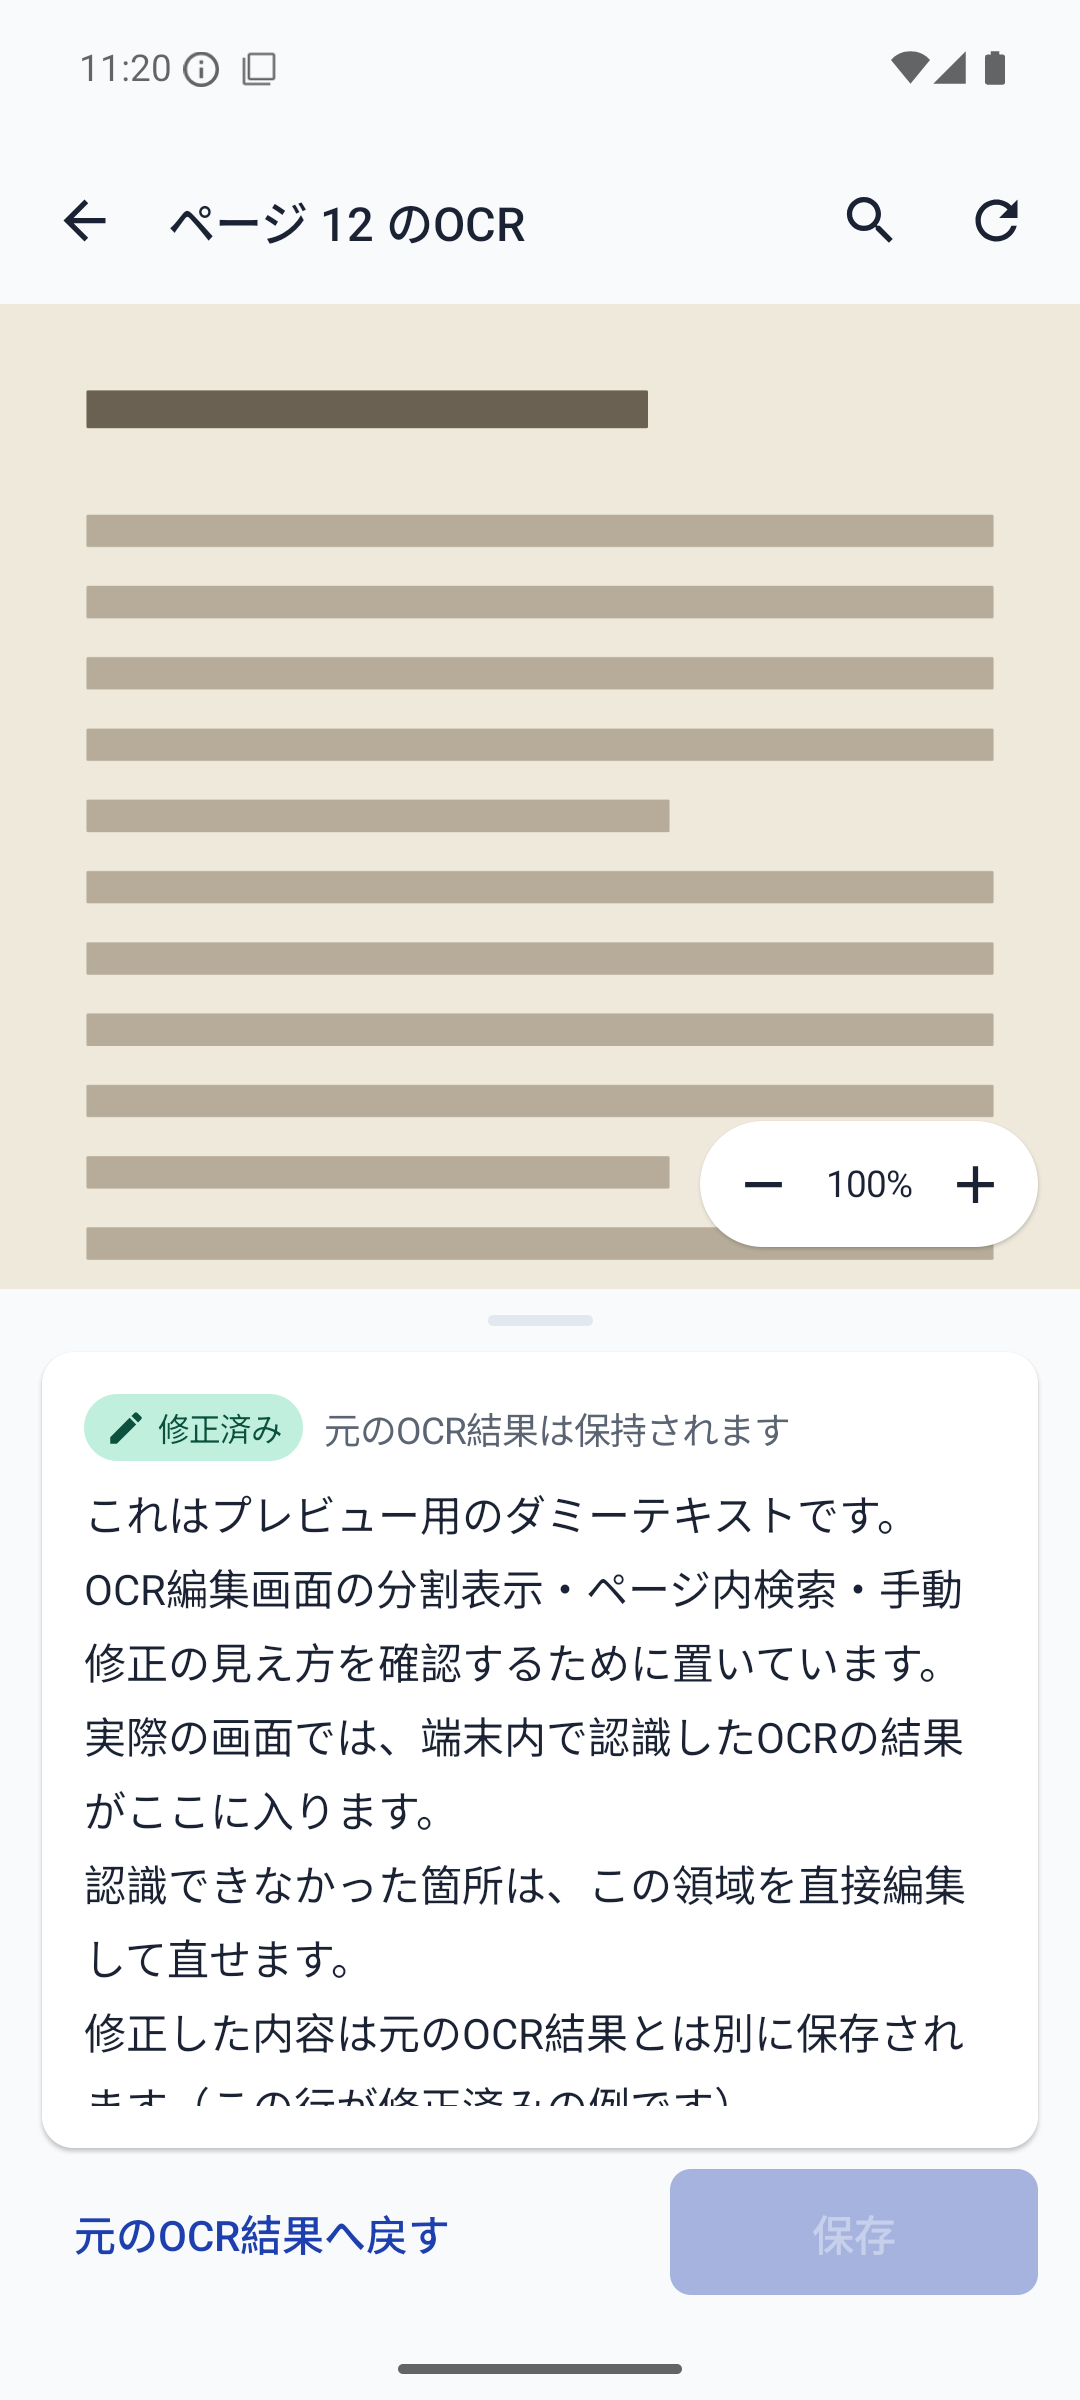
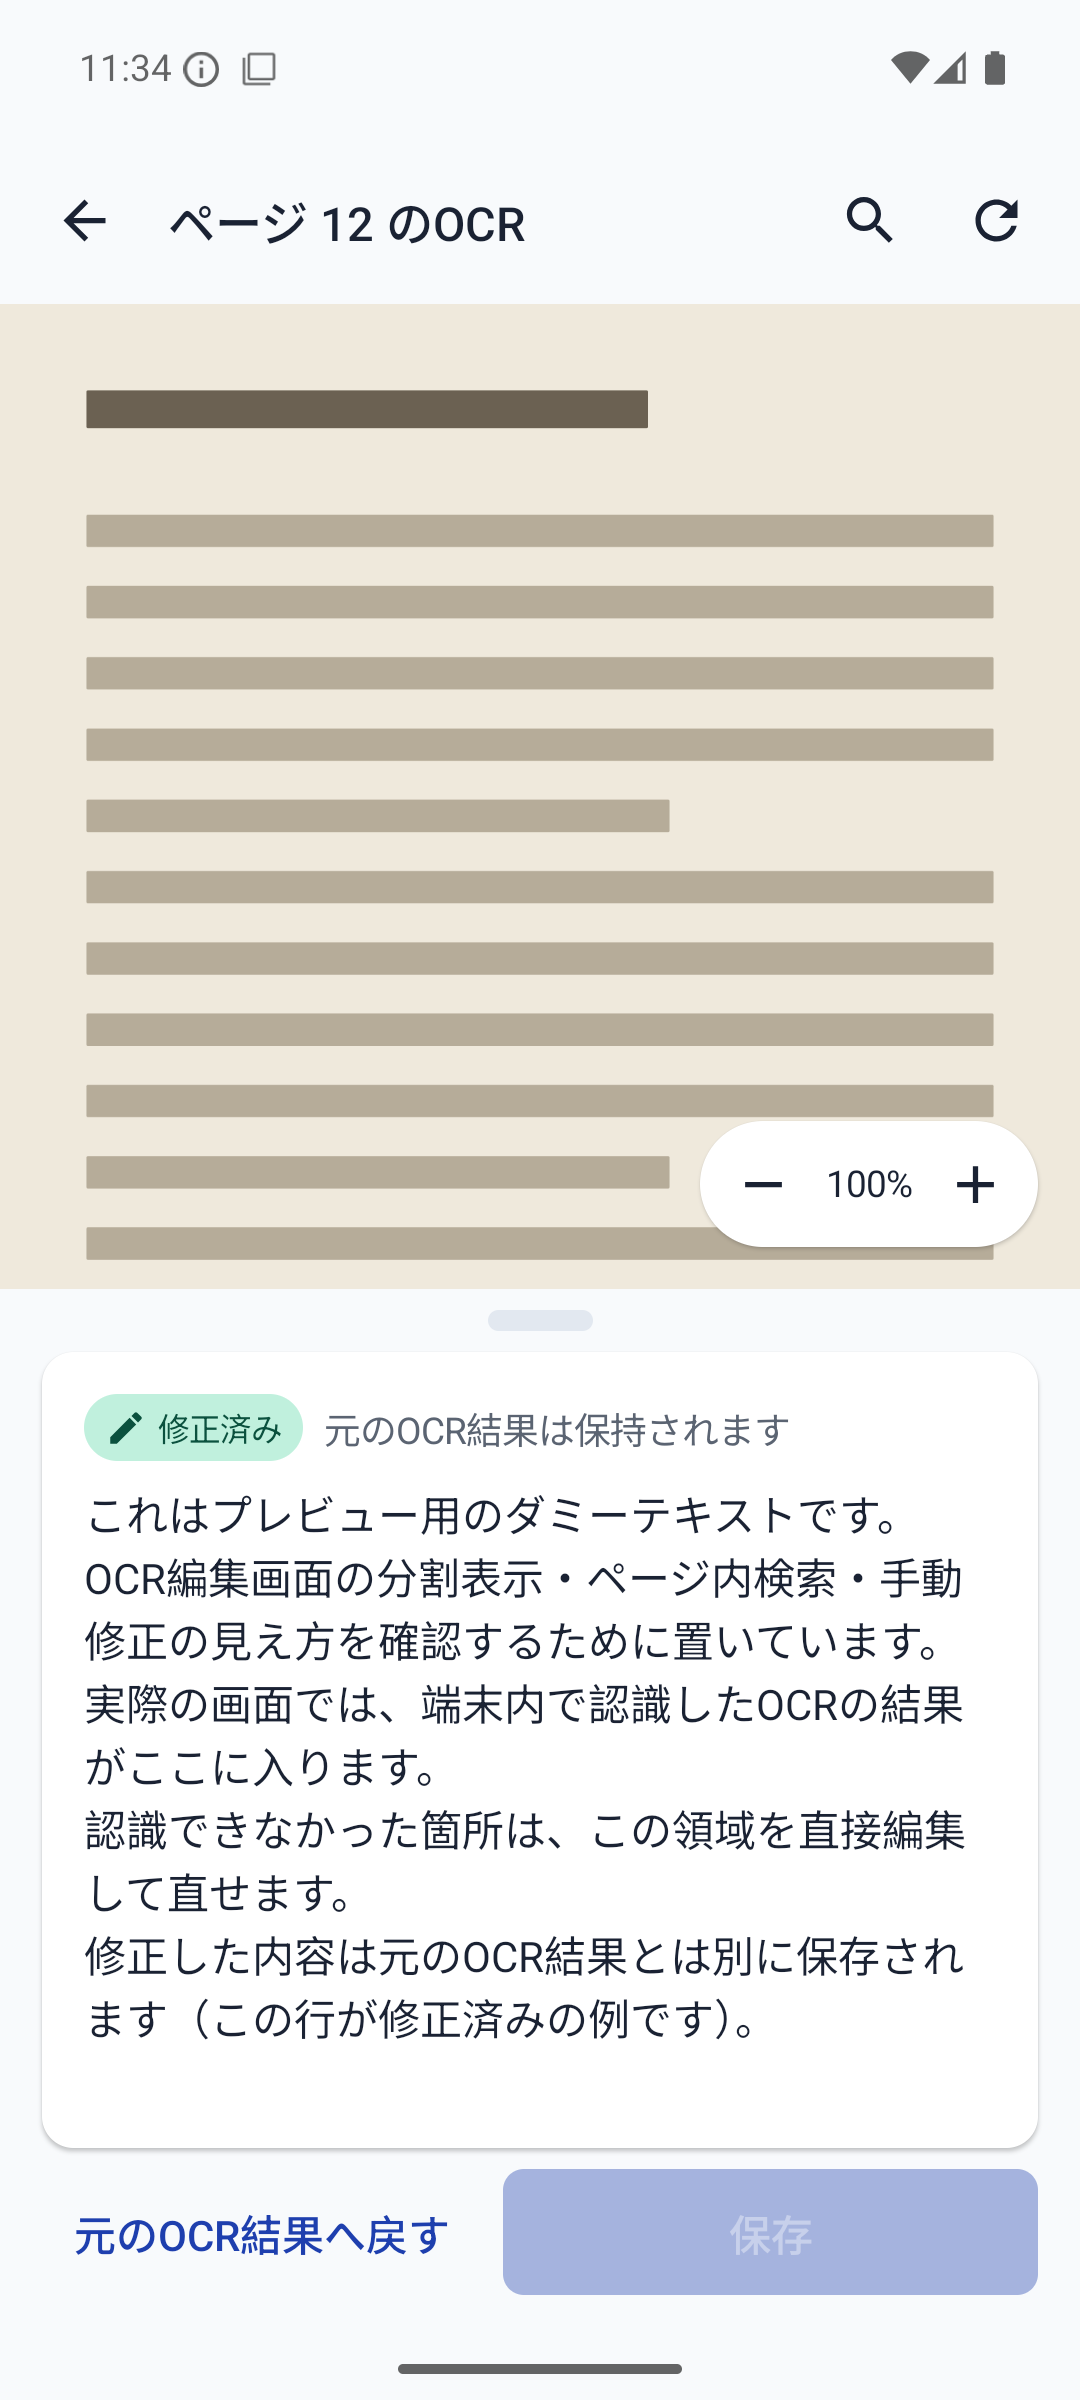
task pagebinder-c2s.5: 局所寸法・行間をデザイントークンへ寄せる
fresh-context 評価者の指摘（デザイントークン準拠が未達）への対応。
値の正本は docs/design/system/01-tokens.md（00-design-overview.md
「数値はトークンが正」）。10-ocr-edit.md 側にこれらの明示定義は無い。

- SAVE_BUTTON_WIDTH=140dp を廃止。保存ボタンは行の残り幅（weight）で決める
- 分割ハンドルのバー高さ 4dp → SpaceUnit(8dp)。ハンドル高さ・バー幅・
  バッジアイコンも 8dp グリッドの倍数（SpaceUnit * n）へ書き換え
- 本文の lineHeight 28sp の上書きを削除し、テーマの bodyLarge(16sp/24sp) を使う
  （10-ocr-edit.md の「行間広め」は素材の記述で、値の正本はトークン）
- スクリーンショットを撮り直し

検証: make verify → VERIFY: PASS（全 57 instrumented test 通過）

Changed region(s): [[0.0611, 0.625, 0.8861, 0.9688], [0.6722, 0.9062, 0.825, 0.9375], [0.1222, 0.0, 0.1528, 0.0312]]

diff --git a/app/src/main/java/com/pagebinder/app/ui/ocredit/OcrEditScreen.kt b/app/src/main/java/com/pagebinder/app/ui/ocredit/OcrEditScreen.kt
@@ -80,7 +80,6 @@ import androidx.compose.ui.text.input.VisualTransformation
 import androidx.compose.ui.text.style.TextAlign
 import androidx.compose.ui.unit.Dp
 import androidx.compose.ui.unit.dp
-import androidx.compose.ui.unit.sp
 import com.pagebinder.app.R
 import com.pagebinder.app.domain.PageOcrState
 import com.pagebinder.app.ui.pagelist.PageStatusBadge
@@ -654,7 +653,9 @@ private fun OcrEditTextField(
             if (updated.text != uiState.draftText) onTextChange(updated.text)
         },
         enabled = !uiState.saving,
-        textStyle = MaterialTheme.typography.bodyLarge.copy(color = ColorText, lineHeight = BODY_LINE_HEIGHT),
+        // 本文16sp・行間はテーマの bodyLarge（16sp/24sp）のまま使う。
+        // docs/design/10-ocr-edit.md の「行間広め」は素材の記述で、値の正本は docs/design/system/01-tokens.md
+        textStyle = MaterialTheme.typography.bodyLarge.copy(color = ColorText),
         cursorBrush = SolidColor(ColorPrimary),
         visualTransformation = transformation,
         modifier = modifier.testTag(OCR_EDIT_TEXT_TEST_TAG),
@@ -736,7 +737,7 @@ private fun OcrEditFooter(
                 color = if (uiState.canRevert) ColorPrimary else ColorPrimary.copy(alpha = DISABLED_ALPHA),
             )
         }
-        Spacer(modifier = Modifier.weight(1f))
+        Spacer(modifier = Modifier.width(SpaceUnit))
         val interactionSource = remember { MutableInteractionSource() }
         val pressed by interactionSource.collectIsPressedAsState()
         Button(
@@ -751,7 +752,9 @@ private fun OcrEditFooter(
                     disabledContainerColor = ColorPrimary.copy(alpha = DISABLED_ALPHA),
                     disabledContentColor = Color.White.copy(alpha = DISABLED_ALPHA),
                 ),
-            modifier = Modifier.width(SAVE_BUTTON_WIDTH).heightIn(min = MinTouchTarget),
+            // 幅は残りの空きを取る。モックの見え方（右側の広い Primary ボタン）を
+            // 固定幅の目測値でなく行の配分で作る
+            modifier = Modifier.weight(1f).heightIn(min = MinTouchTarget),
         ) {
             Text(
                 text = stringResource(R.string.ocr_edit_save),
@@ -869,11 +872,11 @@ private const val IMAGE_DECODE_SCALE = 1.5f
 private const val CURRENT_MATCH_ALPHA = 0.30f
 private const val MATCH_ALPHA = 0.35f
 
-private val BADGE_ICON_SIZE = 16.dp
-private val SPLIT_HANDLE_HEIGHT = 24.dp
-private val SPLIT_HANDLE_BAR_WIDTH = 40.dp
-private val SPLIT_HANDLE_BAR_HEIGHT = 4.dp
-private val SAVE_BUTTON_WIDTH = 140.dp
-
-/** 本文は行間広め（docs/design/10-ocr-edit.md「本文16sp・行間広め」） */
-private val BODY_LINE_HEIGHT = 28.sp
+/**
+ * 寸法はすべて基本グリッド 8dp = [SpaceUnit] の倍数で置く（docs/design/system/01-tokens.md「余白・寸法」）。
+ * モック画像からの目測値は使わない（docs/design/00-design-overview.md「数値はトークンが正」）。
+ */
+private val BADGE_ICON_SIZE = SpaceUnit * 2
+private val SPLIT_HANDLE_HEIGHT = SpaceUnit * 3
+private val SPLIT_HANDLE_BAR_WIDTH = SpaceUnit * 5
+private val SPLIT_HANDLE_BAR_HEIGHT = SpaceUnit
